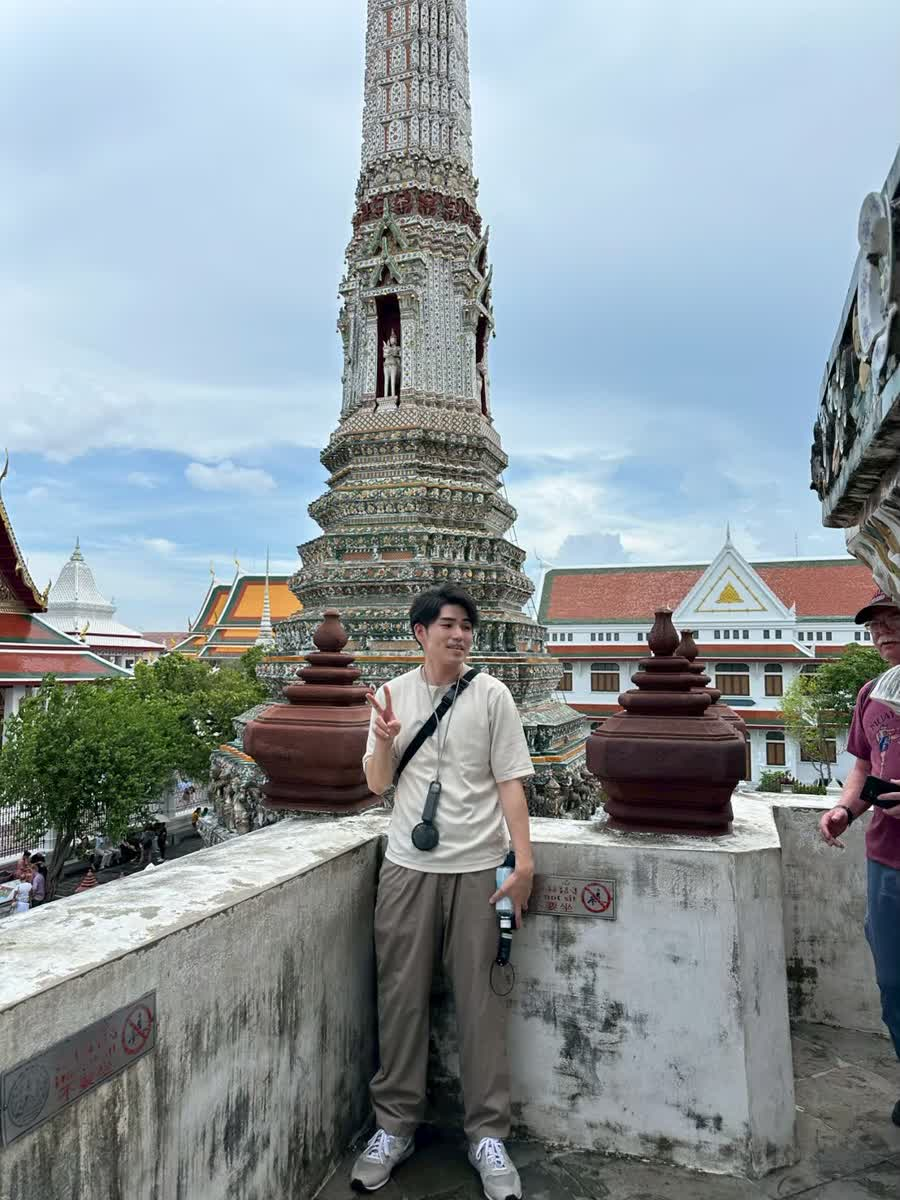
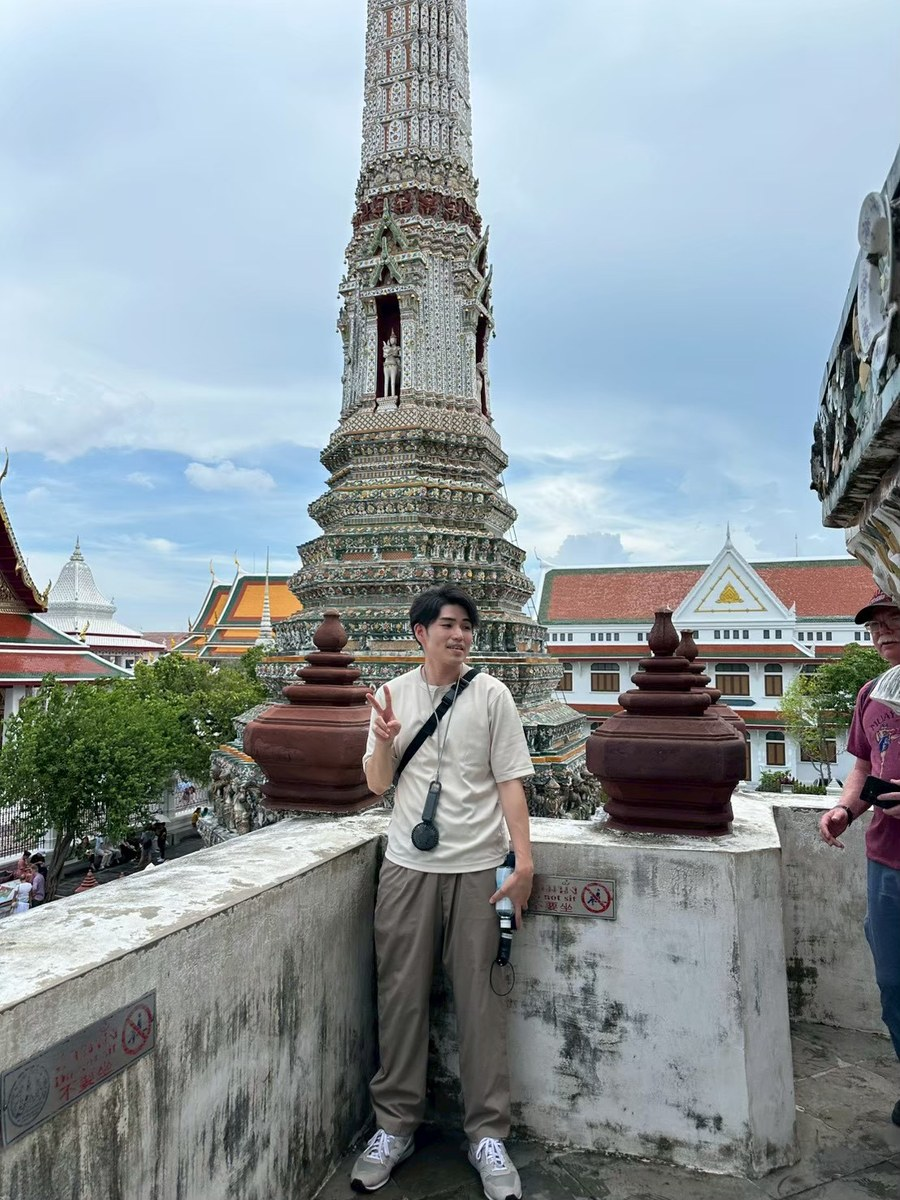
Add near-full profile portrait to hero
Use the travel photo in a soft rounded 3:4 frame instead of an aggressive face crop.

diff --git a/styles.css b/styles.css
@@ -1231,17 +1231,17 @@ a:hover {
 }
 
 
-/* Profile photo in hero */
+/* Profile photo in hero — near-full portrait, soft rounded frame */
 .hero-photo {
   justify-self: center;
-  width: min(220px, 58vw);
-  aspect-ratio: 1;
-  border-radius: 50%;
+  width: min(280px, 70vw);
+  aspect-ratio: 3 / 4;
+  border-radius: 28px;
   overflow: hidden;
   box-shadow:
-    0 18px 40px rgba(90, 70, 55, 0.16),
+    0 20px 44px rgba(90, 70, 55, 0.14),
     0 0 0 6px rgba(255, 253, 249, 0.95),
-    0 0 0 8px rgba(224, 122, 95, 0.28);
+    0 0 0 8px rgba(224, 122, 95, 0.22);
   background: var(--bg-elevated);
 }
 .hero-photo img {
@@ -1249,15 +1249,16 @@ a:hover {
   width: 100%;
   height: 100%;
   object-fit: cover;
-  object-position: center 18%;
+  object-position: center 40%;
 }
 @media (max-width: 720px) {
   .hero-photo {
     order: -1;
-    width: min(160px, 46vw);
+    width: min(200px, 56vw);
+    border-radius: 22px;
     box-shadow:
-      0 12px 28px rgba(90, 70, 55, 0.14),
+      0 14px 30px rgba(90, 70, 55, 0.12),
       0 0 0 4px rgba(255, 253, 249, 0.95),
-      0 0 0 6px rgba(224, 122, 95, 0.25);
+      0 0 0 6px rgba(224, 122, 95, 0.2);
   }
 }

diff --git a/index.html b/index.html
@@ -65,12 +65,12 @@
           </div>
           <div class="hero-photo">
             <img
-              src="/portfolio/assets/profile/avatar.jpg"
-              srcset="/portfolio/assets/profile/avatar-320.jpg 320w, /portfolio/assets/profile/avatar.jpg 640w"
-              sizes="(max-width: 720px) 160px, 220px"
+              src="/portfolio/assets/profile/portrait.jpg"
+              srcset="/portfolio/assets/profile/portrait-sm.jpg 450w, /portfolio/assets/profile/portrait.jpg 900w"
+              sizes="(max-width: 720px) 200px, 280px"
               alt="寺嶋 裕のプロフィール写真"
-              width="640"
-              height="640"
+              width="900"
+              height="1200"
               decoding="async"
             />
           </div>
